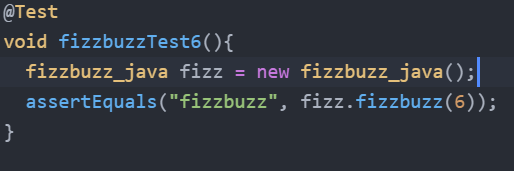
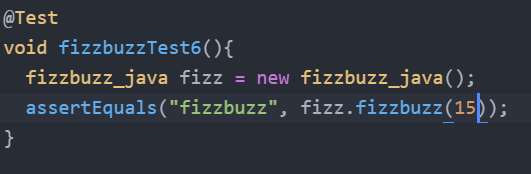
Modified code to make test 6 work

diff --git a/lab04/fizzbuss_java/src/fizzbuzz_java.java b/lab04/fizzbuss_java/src/fizzbuzz_java.java
@@ -1,12 +1,19 @@
 class fizzbuzz_java{
 
   public static String fizzbuzz(int n){
+
+    if(n % 3 == 0 && n % 5 == 0){
+      return "fizzbuzz";
+    }
+
     if(n % 3 == 0){
       return "fizz";
     }
+
     else if(n % 5 == 0){
       return "buzz";
     }
+
     else{
       return Integer.toString(n);
     }

diff --git a/lab04/fizzbuss_java/test/fizzbuzzJavaTest.java b/lab04/fizzbuss_java/test/fizzbuzzJavaTest.java
@@ -37,7 +37,7 @@ class fizzbuzzJavaTest{
   @Test
   void fizzbuzzTest6(){
     fizzbuzz_java fizz = new fizzbuzz_java();
-    assertEquals("fizzbuzz", fizz.fizzbuzz(6));
+    assertEquals("fizzbuzz", fizz.fizzbuzz(15));
   }
 
 }
